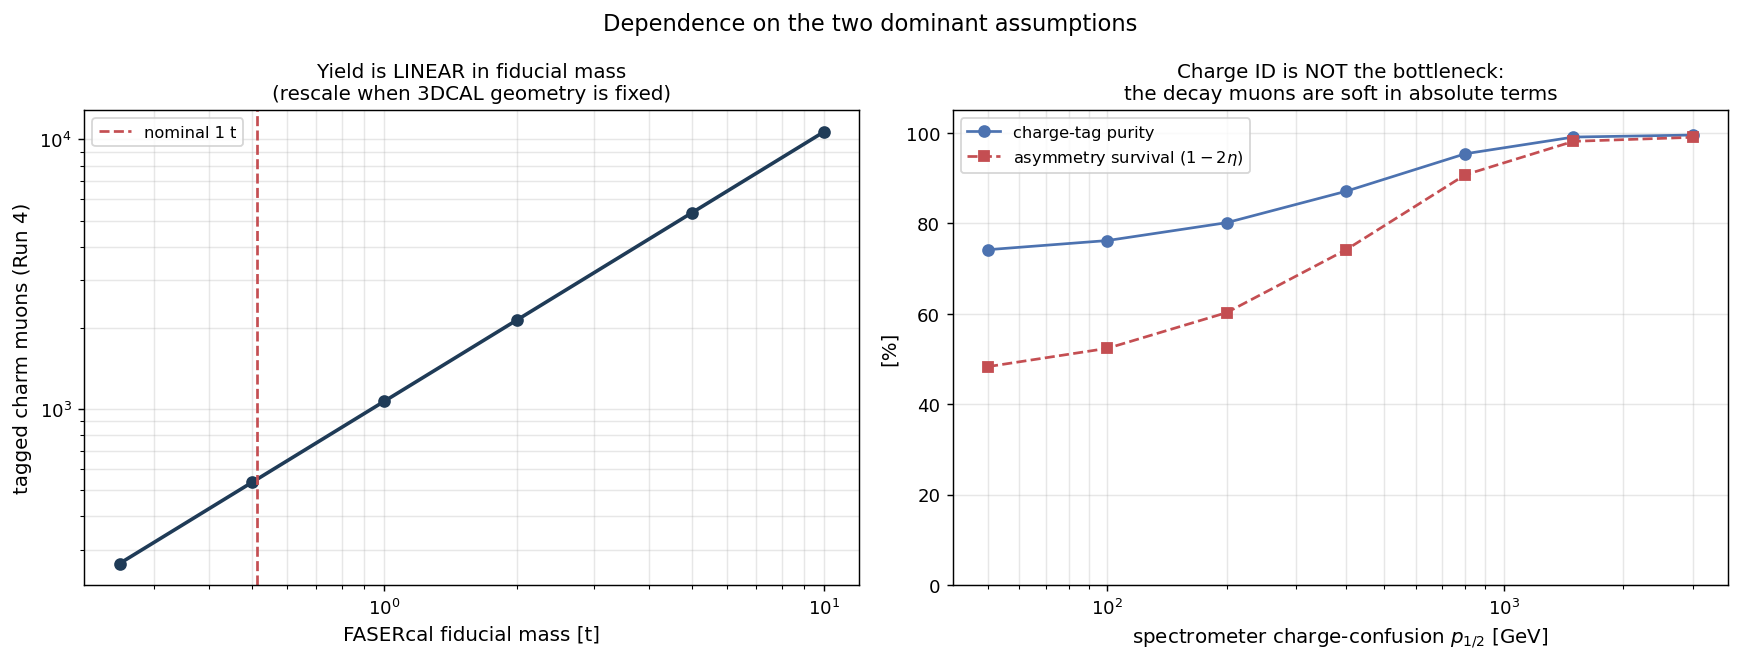
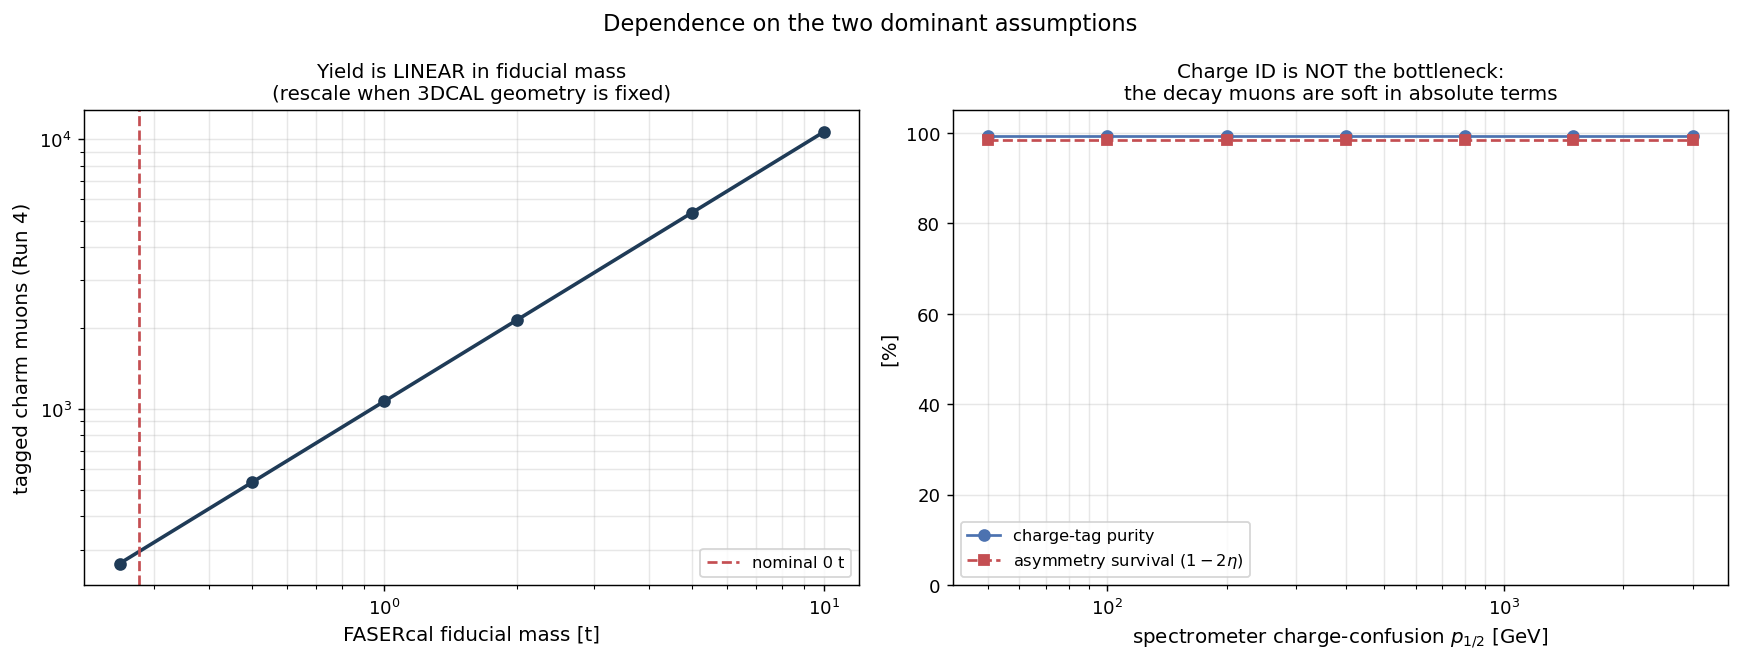
Fold in the FASERCal CDR v0: masses, fiducial cut, measured charge misID
Resolution rule applied throughout: the Bern CM talk (15 Jul 2026) wins on
conflicts, the CDR (16 Feb 2026) fills gaps. Position (452,236 mm, 4.5 deg) and
luminosity (780/fb) therefore stay as in the talk; the CDR supplies four things
the talk did not.

1. MASS (CDR Table 5, authoritative): 581 / 896 / 1118 kg for 1 / 5 / 10 mm W
   per module. My first-principles calculation gave 514 / 692 kg, 13-29% light
   because it omits the aluminium enclosures, WLS fibres, glue and Tyvek.

2. FIDUCIAL CUT (CDR Table 8): rates are quoted "restricted to the fiducial
   region z below 1150 mm", i.e. the upstream 48% of the 2.41 m detector, so the
   hadronic shower is contained downstream of the vertex. The same argument
   applies to muon DIS, so it is now applied: fiducial mass 277 kg (1 mm).
   This is the dominant new effect, x0.48 on every absolute yield.

3. CHARGE MISIDENTIFICATION (CDR Sec 2.6.2), from a full Geant4+GenFit Kalman
   fit of the baseline spectrometer (10 Fe planes at 1.5 T, 11 SciFi stations
   at 100 um, at least 8 stations required): below 0.7% for 20-100 GeV, 1-2% at
   200-600 GeV, 2-5% at 0.8-1.5 TeV. This replaces the toy sigmoid. Since the
   charm decay muon has median momentum 11.5 GeV it sits in the best region:
   charge-tag purity improves 97.3% to 99.2%. The real spectrometer is BETTER
   than the toy, confirming charge ID is not the bottleneck.

4. THE 10 mm W OPTION added (CDR Table 5 third column).
[…]

diff --git a/python/make_chain_report.py b/python/make_chain_report.py
@@ -84,7 +84,7 @@ def page_conditions(pdf, d):
 
     # ---------------- conditions table ----------------
     ax2 = fig.add_subplot(gs[1]); ax2.axis("off")
-    g1, g5 = G.configure(0.1), G.configure(0.5)
+    g1, g5 = G.cdr_config(0.1), G.cdr_config(0.5)
     rows = [
         ("Luminosity (Run 4 nominal)", f"{F.LUMI_RUN4:.0f} fb$^{{-1}}$", "FASERCal Bern CM talk"),
         ("Fiducial volume", "3DCAL only, AHCAL excluded", "as requested"),
@@ -92,10 +92,14 @@ def page_conditions(pdf, d):
                            f"{G.CUBE_CM:.0f} cm$^3$ cubes", "talk slide 4"),
         ("3DCAL face", f"{G.FACE_CM:.0f} x {G.FACE_CM:.0f} cm", "talk slide 11"),
         ("Absorber", "1 mm or 5 mm W per MODULE (every 20 layers)", "talk slide 39"),
-        ("Fiducial mass", f"{g1['m_tot']:.3f} t (1 mm) / {g5['m_tot']:.3f} t (5 mm)", "computed"),
+        ("3DCAL total mass", f"{g1['mass_full_kg']:.0f} kg (1 mm) / {g5['mass_full_kg']:.0f} kg (5 mm)",
+         "CDR Table 5"),
+        ("Fiducial cut", f"z < {G.FIDUCIAL_Z_MM:.0f} mm ({100*g1['f_fiducial']:.0f}% of length)", "CDR Table 8"),
+        ("Fiducial mass", f"{1e3*g1['m_tot']:.0f} kg (1 mm) / {1e3*g5['m_tot']:.0f} kg (5 mm)", "derived"),
+        ("Charge misidentification", "0.7% ($<$100 GeV) $\\to$ 2-5% (TeV)", "CDR Sec. 2.6.2"),
+        ("Spectrometer", "10 Fe planes 1.5 T, 11 SciFi stations 100 $\\mu$m", "CDR Table 7"),
         ("Radiation / collision length (5 mm)", f"{g5['x0_total']:.1f} $X_0$ / "
-                                                f"{g5['lambda_int']:.1f} $\\lambda$",
-         "cf. quoted 18.3 / 4.8"),
+                                                f"{g5['lambda_int']:.1f} $\\lambda$", "CDR Table 5"),
         ("Position", f"LoS shift ({G.LOS_SHIFT_X_MM:.0f}, {G.LOS_SHIFT_Y_MM:.0f}) mm, "
                      f"tilt {G.TILT_DEG:.1f}$\\degree$", "talk slides 11-12"),
         ("Target composition", "polystyrene CH, $w_p$=0.538 (+ W where present)", "computed per event"),
@@ -374,7 +378,7 @@ def page_tungsten_scenarios(pdf, d, cone):
 def page_tungsten_scan(pdf, d, cone):
     """Is there an optimum absorber thickness?"""
     import geometry as G
-    tw = np.concatenate([[0.0], np.logspace(np.log10(0.02), np.log10(2.0), 26)])
+    tw = np.array(sorted(G.CDR_TABLE5))
     res = [F.chain_scenario(d, float(t), cone=cone) for t in tw]
     tag = np.array([r["n_tag"] for r in res])
     facc = np.array([100 * r["f_acc"] for r in res])
@@ -385,6 +389,7 @@ def page_tungsten_scan(pdf, d, cone):
     for nm, t in G.SCENARIOS.items():
         m = F.chain_scenario(d, t, cone=cone)
         ax1.plot(t * 10, m["n_tag"], "o", ms=10, label=nm.replace("_", " "))
+    ax1.set_xscale("log")
     ax1.set_xlabel("tungsten per module [mm]", fontsize=11)
     ax1.set_ylabel("tagged charm muons (Run 4)", fontsize=11)
     ax1.legend(fontsize=9); ax1.grid(alpha=0.3)
@@ -473,7 +478,7 @@ def page_offaxis(pdf, d, cone):
     ff = np.logspace(np.log10(0.2), np.log10(12.0), 40)
     fig, (ax1, ax2) = plt.subplots(1, 2, figsize=(14, 5.4))
     palette = ["#4c72b0", "#dd8452", "#c44e52"]
-    cols = {nm: palette[i % 3] for i, nm in enumerate(G.SCENARIOS)}
+    cols = {nm: palette[i % len(palette)] for i, nm in enumerate(G.SCENARIOS)}
     for nm, t in G.SCENARIOS.items():
         tag = [F.chain_scenario(d, t, cone=cone, f_flux=float(f))["n_tag"] for f in ff]
         sig = [F.chain_scenario(d, t, cone=cone, f_flux=float(f))["sigma_A"] for f in ff]

diff --git a/python/geometry.py b/python/geometry.py
@@ -101,8 +101,51 @@ def theta_ms(p_gev, x0):
 
 
 # The two absorber options actually under consideration, plus a no-W reference.
+# ---------------------------------------------------------------------------
+# CDR Table 5 (v0, 16 Feb 2026) gives the AUTHORITATIVE material budget, which
+# supersedes the values computed from first principles above (those omit the
+# aluminium enclosures, WLS fibres, glue and Tyvek, and came out 13-29% light).
+# Resolution rule for this study: the Bern CM talk (15 Jul 2026) wins on
+# conflicts, the CDR fills gaps.  Mass was a gap.
+#
+#   t_W/module   length[mm]  weight[kg]   X0    lambda   nu-int per ab^-1 [k]
+#      1 mm         2410        581       6.9     4.4          15.1
+#      5 mm         2450        896      18.3     4.8          19.6
+#     10 mm         2500       1118      32.5     5.3          25.2
+CDR_TABLE5 = {
+    0.1: dict(length_mm=2410, mass_kg=581,  x0=6.9,  lam=4.4, nu_per_ab=15.1),
+    0.5: dict(length_mm=2450, mass_kg=896,  x0=18.3, lam=4.8, nu_per_ab=19.6),
+    1.0: dict(length_mm=2500, mass_kg=1118, x0=32.5, lam=5.3, nu_per_ab=25.2),
+}
+
+# FIDUCIAL REGION.  CDR Table 8 quotes rates "restricted to the fiducial region
+# z < 1150 mm", i.e. only the upstream ~48% of the 2.4 m detector, so that the
+# hadronic shower is contained downstream of the vertex.  The same containment
+# argument applies to muon DIS, so the fiducial fraction is applied here too.
+FIDUCIAL_Z_MM = 1150.0
+
+
+def cdr_config(t_w_cm, fiducial=True):
+    """
+    Material budget from CDR Table 5, optionally restricted to the fiducial
+    z < 1150 mm region.  Returns the same keys as configure() so the two are
+    interchangeable; use this one for absolute yields.
+    """
+    if t_w_cm not in CDR_TABLE5:
+        raise KeyError(f"CDR Table 5 has no entry for t_W = {t_w_cm} cm")
+    c = CDR_TABLE5[t_w_cm]
+    f_fid = min(FIDUCIAL_Z_MM / c["length_mm"], 1.0) if fiducial else 1.0
+    g = configure(t_w_cm)                       # for the derived quantities
+    m_tot = c["mass_kg"] / 1.0e3 * f_fid
+    # split the fiducial mass between scintillator and W in the computed ratio
+    frac_w = g["m_w"] / g["m_tot"]
+    return dict(g, m_tot=m_tot, m_w=m_tot * frac_w, m_sc=m_tot * (1 - frac_w),
+                x0_total=c["x0"], lambda_int=c["lam"], f_fiducial=f_fid,
+                mass_full_kg=c["mass_kg"], length_mm=c["length_mm"])
+
+
 SCENARIOS = {
-    "no_W_reference": 0.0,
-    "W_1mm_module":   0.1,
-    "W_5mm_module":   0.5,
+    "W_1mm_module":  0.1,      # CDR/talk baseline
+    "W_5mm_module":  0.5,
+    "W_10mm_module": 1.0,      # CDR Table 5 third option
 }

diff --git a/python/fasercal_chain.py b/python/fasercal_chain.py
@@ -68,7 +68,11 @@ COMPOSITION = {
 #   -> 0.470 t scintillator, plus 0.044 t (1 mm W/module) or 0.222 t (5 mm)
 # The 1 mm option is the baseline used in the FASERCal simulations and costing,
 # so it is taken as nominal here.  geometry.configure() computes both.
-M_FID_T = 0.514    # tonne, 3DCAL with 1 mm W per module (AHCAL excluded)
+# CDR Table 5: 581 kg total for the 1 mm baseline; CDR Table 8 restricts rates
+# to the fiducial z < 1150 mm (48% of the 2410 mm length), giving 277 kg.
+# (The first-principles calculation gave 514 kg, 13% light: it omits the
+#  aluminium enclosures, WLS fibres, glue and Tyvek.)
+M_FID_T = 0.277    # tonne, 3DCAL 1 mm W, fiducial z < 1150 mm (AHCAL excluded)
 
 # REFERENCE MASS implicit in the flux normalisation.  arXiv:2506.13889 Eq. (2.1)
 # defines the flux as f_mu(x_mu) = n_T L_T dN_mu/dx_mu, i.e. the TUNGSTEN TARGET
@@ -157,8 +161,23 @@ def event_weight(d, material="scintillator_CH", lumi=LUMI_RUN4,
     return d["w_raw"] * w_nucl * scale
 
 
-def charge_confusion(p, eta0, p_half_gev, p_width_gev, **_):
-    return eta0 + (0.5 - eta0) / (1.0 + np.exp(-(p - p_half_gev) / p_width_gev))
+# Charge misidentification, MEASURED.  FASERCal CDR v0 Sec. 2.6.2 reports, from
+# a full Geant4 + GenFit Kalman fit of the baseline spectrometer (10 iron planes
+# at 1.5 T, 11 SciFi stations at 100 um, tracks required to cross >=8 stations):
+#     20 - 100  GeV : misidentification below 0.7%
+#    200 - 600  GeV : rises gradually to the 1-2% level
+#    800 - 1500 GeV : 2-5%
+# Interpolated log-linearly below.  This SUPERSEDES the previous toy sigmoid,
+# whose parameters (eta0, p_half_gev, p_width_gev) are now ignored but kept in
+# DEFAULTS so old calls do not break.
+_CC_P    = np.array([20.,  100.,  200.,  600.,  800., 1500., 5000.])
+_CC_ETA  = np.array([0.007, 0.007, 0.010, 0.020, 0.020, 0.050, 0.120])
+
+
+def charge_confusion(p, *_a, **_kw):
+    """Probability of assigning the wrong charge sign, vs muon momentum [GeV]."""
+    p = np.asarray(p, dtype=float)
+    return np.interp(np.log10(np.clip(p, 1e-3, None)), np.log10(_CC_P), _CC_ETA)
 
 
 # ------------------------------------------------------- tungsten scenarios
@@ -220,7 +239,7 @@ def chain_scenario(d, t_w_cm, params=None, lumi=LUMI_RUN4, cone=None,
     import geometry as G
     p = dict(DEFAULTS); p.update(params or {})
     rng = rng or np.random.default_rng(2024)
-    geo = G.configure(t_w_cm)
+    geo = G.cdr_config(t_w_cm)
 
     # ---- yields per material, correct composition each ----
     w = (yield_per_tonne(d, "scintillator_CH", lumi, f_flux) * geo["m_sc"]

diff --git a/docs/STATUS.md b/docs/STATUS.md
@@ -1,6 +1,7 @@
 # FASERcal muon-DIS charm study — status
 
-*Updated 2026-08-03, after the FASERCal Bern CM talk (15 July 2026).*
+*Updated 2026-08-03, after the FASERCal Bern CM talk (15 Jul 2026) and CDR v0 (16 Feb 2026).*
+*Resolution rule: **the talk wins on conflicts, the CDR fills gaps**.*
 *Repo: [github.com/virgolaema/fasercal-muDIS](https://github.com/virgolaema/fasercal-muDIS) (pushed).*
 
 **Where we are:** the full chain from muon-DIS interactions to charge-signed charm
@@ -12,30 +13,27 @@ assumptions with designed values — and corrected several of them substantially
 ## 1. Headline numbers
 
 Run 4 at **780 fb⁻¹** (FASERCal's own nominal), **3DCAL only** (AHCAL excluded),
-as-designed geometry, at the measured off-axis flux (F_flux = 0.96) and
-identification+linking efficiency ε = 0.9:
+as-designed geometry, **1 mm W baseline**, fiducial z < 1150 mm, measured
+off-axis flux (F_flux = 0.96), identification+linking efficiency ε = 0.9:
 
-| stage | 1 mm W/module | fraction |
+| stage | events | fraction |
 |---|---:|---|
-| Muon DIS in 3DCAL | **347 059** | 100 % |
-| … containing charm | 9 807 | 2.83 % |
-| … charm → semileptonic µ | 1 722 | 17.6 % of charm |
-| … µ punches out | 1 418 | 82.4 % |
-| … reaches spectrometer (43 %) | 610 | 43 % |
-| … identified + linked (ε = 0.9) | **549** | **0.158 % of DIS** |
+| Muon DIS in 3DCAL fiducial | **187 034** | 100 % |
+| … containing charm | 5 285 | 2.83 % |
+| … charm → semileptonic µ | 928 | 17.6 % of charm |
+| … µ punches out | 764 | 82.4 % |
+| … reaches spectrometer (43 %) | 329 | 43 % |
+| … identified + linked (ε = 0.9) | **296** | **0.158 % of DIS** |
 
-Charge-tag purity **97.3 %**. The result vs ε is report page 20; σ(A_c) ∝ 1/√ε.
+Charge-tag purity **99.2 %** (CDR-measured misidentification, §2.6.2).
 
-Position **resolved**: the detector is on the **left of the LoS looking
-downstream**, i.e. the **+452 mm** side, where the FLUKA map gives
-**F_flux = 0.96** — essentially the on-axis value (the mirror lobe at −452 mm
-would have given 2.02).
+| absorber | full mass | fiducial mass | tagged | σ(A_c) |
+|---|---:|---:|---:|---:|
+| **1 mm W/module** (baseline) | 581 kg | **277 kg** | **296** | **0.058** |
+| 5 mm W/module | 896 kg | 421 kg | 445 | 0.047 |
+| 10 mm W/module | 1118 kg | 514 kg | 546 | 0.043 |
 
-| configuration | mass | σ(A_c) at ε = 0.9 |
-|---|---:|---:|
-| no W (reference) | 0.470 t | 0.045 |
-| **1 mm W/module** | **0.514 t** | **0.043** |
-| 5 mm W/module | 0.692 t | 0.037 |
+The result vs ε is report page 20; σ(A_c) ∝ 1/√ε.
 
 ---
 
@@ -92,6 +90,9 @@ would have given 2.02).
 | **8** | **W between every 1 cm layer** | **W per MODULE (every 20 layers)** | **mass 5–10× too high; 5 mm option 7.11 t → 0.692 t** |
 | 9 | fiducial mass assumed 1 t | designed **0.514 t** | yields ×0.51 |
 | 10 | luminosity 680 fb⁻¹ (TP print) | **780 fb⁻¹** (FASERCal's own) | yields ×1.15 |
+| 11 | mass computed from first principles (514 kg) | **CDR Table 5: 581 kg** | ×1.13 — my calc omitted Al enclosures, WLS fibres, glue, Tyvek |
+| 12 | no fiducial cut | **z < 1150 mm (CDR Table 8)** | **×0.48** — the dominant new effect |
+| 13 | toy charge-confusion sigmoid | **CDR §2.6.2 measured**: 0.7 % below 100 GeV | purity 97.3 % → **99.2 %** — the real spectrometer is *better* than my toy |
 
 ---
 
@@ -105,6 +106,7 @@ would have given 2.02).
 - [ ] Detector reconstruction — all kinematics still truth-level
 
 **Open questions**
+- [ ] **Run 4 muon flux may be ~2× higher than luminosity scaling implies.** CDR §1.3.2: the 2024 optics change (crossing angle reversed, Q4 off, looser collimators) already "increas[es] the rate by a factor of 2 and increas[es] the energy of the muons… a large increase in high-momentum, positively charged muons", and Run 4 goes to a 250 µrad horizontal crossing angle with mitigation "not clear". My flux is the Run 3 FLUKA sample scaled by luminosity only, so **yields may be a factor ~2 low**.
 - [ ] **Sign convention of X** between the FASERCal CAD and the FLUKA ntuple — worth a **factor 2** in every yield
 - [ ] Residual **~1.7×** normalisation gap vs the paper's Table 2.1, after the reference-mass fix. Not the flux variant. Unexplained.
 - [x] ~~The talk quotes 4.8 λ for the 3DCAL, my model gave 3.0~~ — **resolved**: the quoted figure is the nuclear **collision** length λ_T, mine was the **interaction** length λ_I. With λ_T the 5 mm option gives 5.00 vs the quoted 4.8 (and X₀ 19.1 vs 18.3). A definition mismatch, not missing material.
@@ -123,7 +125,6 @@ Much shorter than before — the talk resolved most of it.
 | # | need | why it matters |
 |---|---|---|
 | **1** | One-line confirmation that the FLUKA ntuple's `truth_prod_x` is the standard right-handed FASER/ATLAS x (so that "left looking downstream" = +x) | if reversed, every yield ×2.1 |
-| **2** | Momentum resolution and charge-confusion vs p from the MDT/GenFit study (slides 35–38 show the machinery, not the resolved curve) | replaces the toy charge-confusion sigmoid |
 | **3** | Hadronic energy / jet resolution for **3DCAL alone** — the talk gives them for the full 3DCAL+ECAL+AHCAL+MuSpect chain (p_jet: bias 9 %, res 9 % for NC) | needed for the x-reconstruction study; if AHCAL is excluded the resolution will be worse |
 | **4** | Confirmation that muon DIS should use 3DCAL only, or 3DCAL+ECAL+AHCAL | the talk's own numbers show AHCAL has 3.3 t vs 3DCAL's 0.5 t — a **6× larger** target |
 
